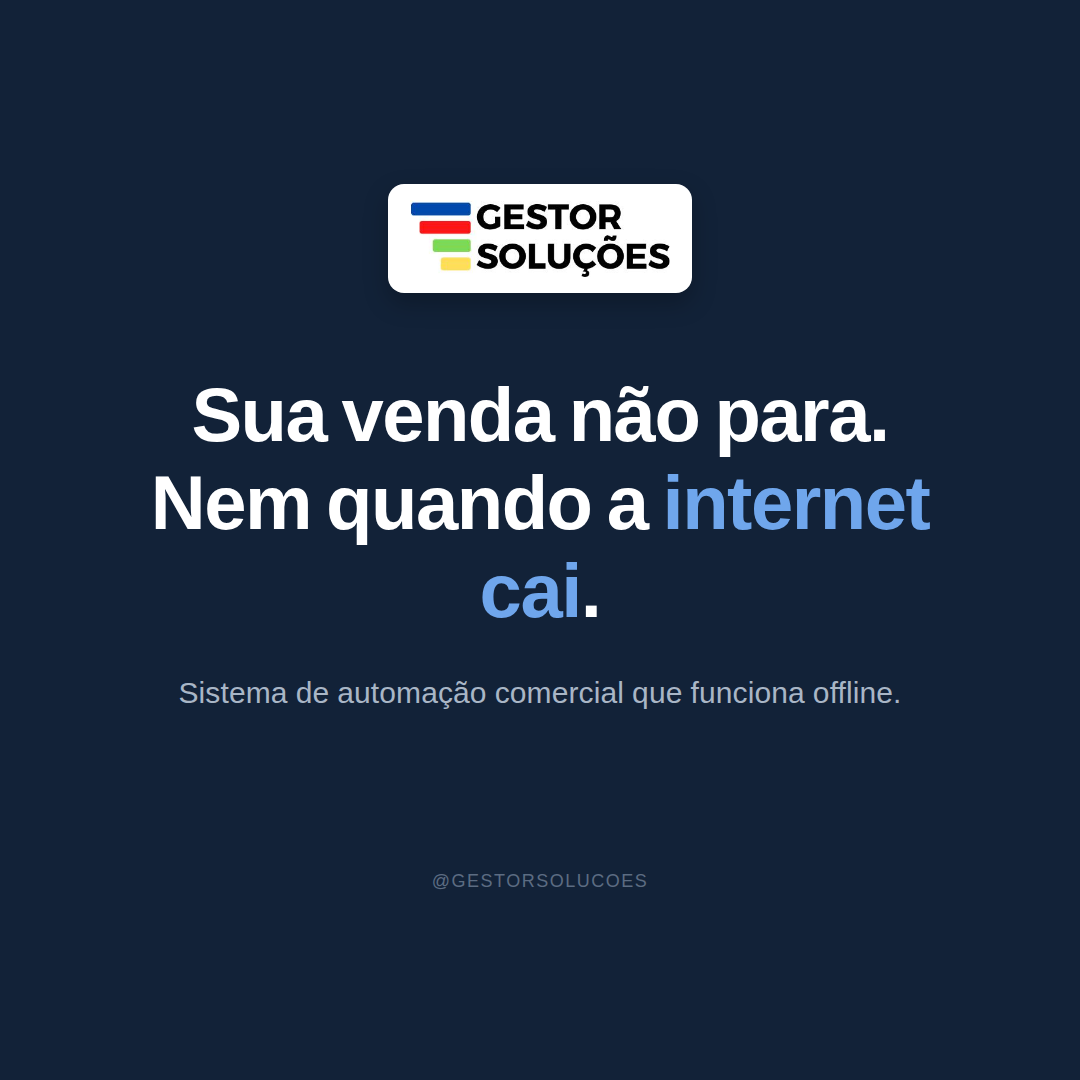
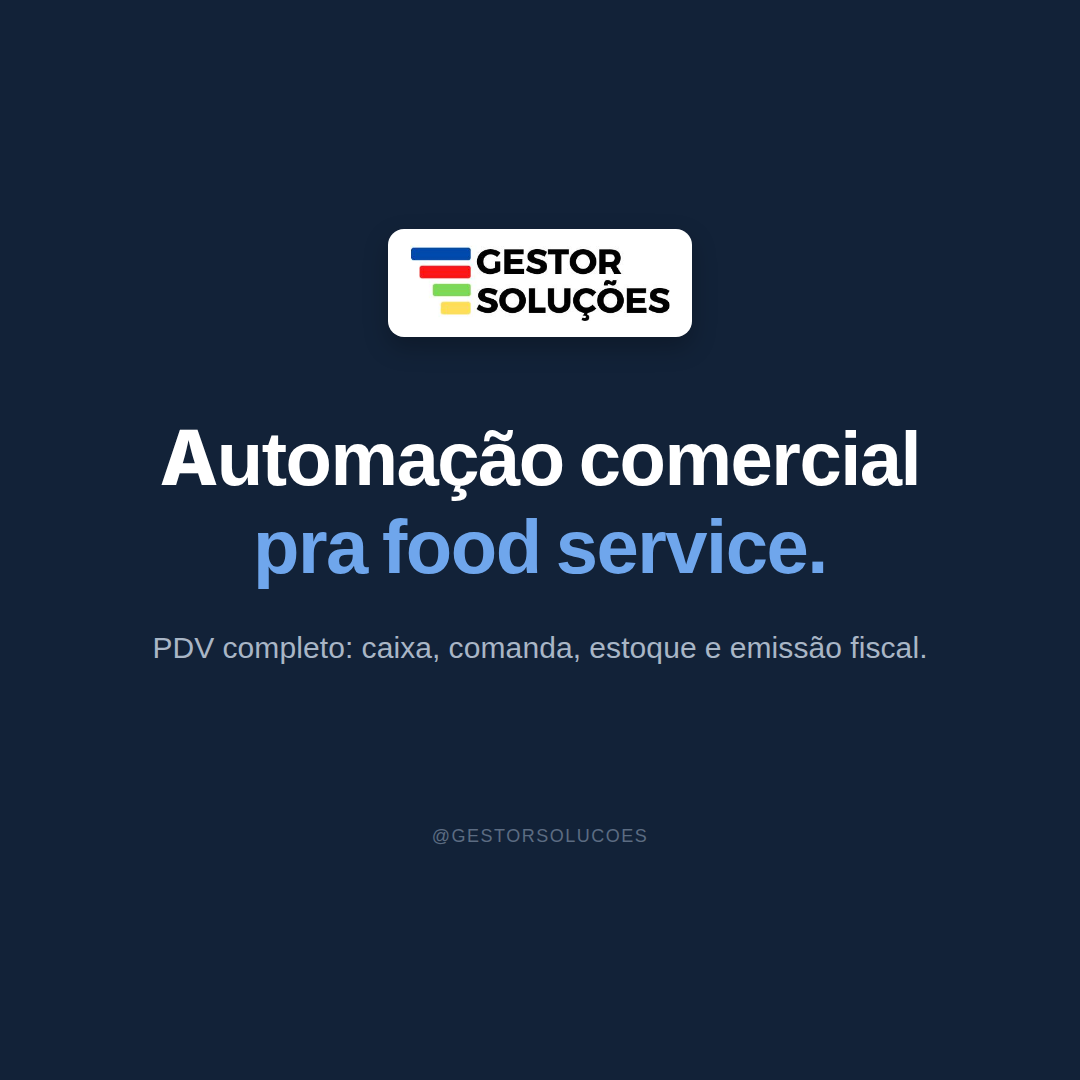
Volta o headline do post 1 para automacao (PDV) em food service
A imagem volta a focar no core do produto (automacao comercial/PDV
para food service). Suporte agil e funcionamento offline saem do
headline e passam a ser destaque no texto da legenda.

Claude-Session: https://claude.ai/code/session_01QbVyabVbg4H6iH19DpyN3s

Changed region(s): [[0.1222, 0.1528, 0.8556, 0.6722], [0.3972, 0.7639, 0.5806, 0.825]]

diff --git a/content/posts/post-01-quem-somos/design.html b/content/posts/post-01-quem-somos/design.html
@@ -89,8 +89,8 @@
     <div class="mark">
       <img src="../../../brand/logo/logo-trimmed.png" alt="Gestor Soluções" />
     </div>
-    <div class="headline">Sua venda não para.<br />Nem quando a <span class="accent">internet cai</span>.</div>
-    <div class="subline">Sistema de automação comercial que funciona offline.</div>
+    <div class="headline">Automação comercial<br /><span class="accent">pra food service.</span></div>
+    <div class="subline">PDV completo: caixa, comanda, estoque e emissão fiscal.</div>
     <div class="footer">@gestorsolucoes</div>
   </div>
 </body>
